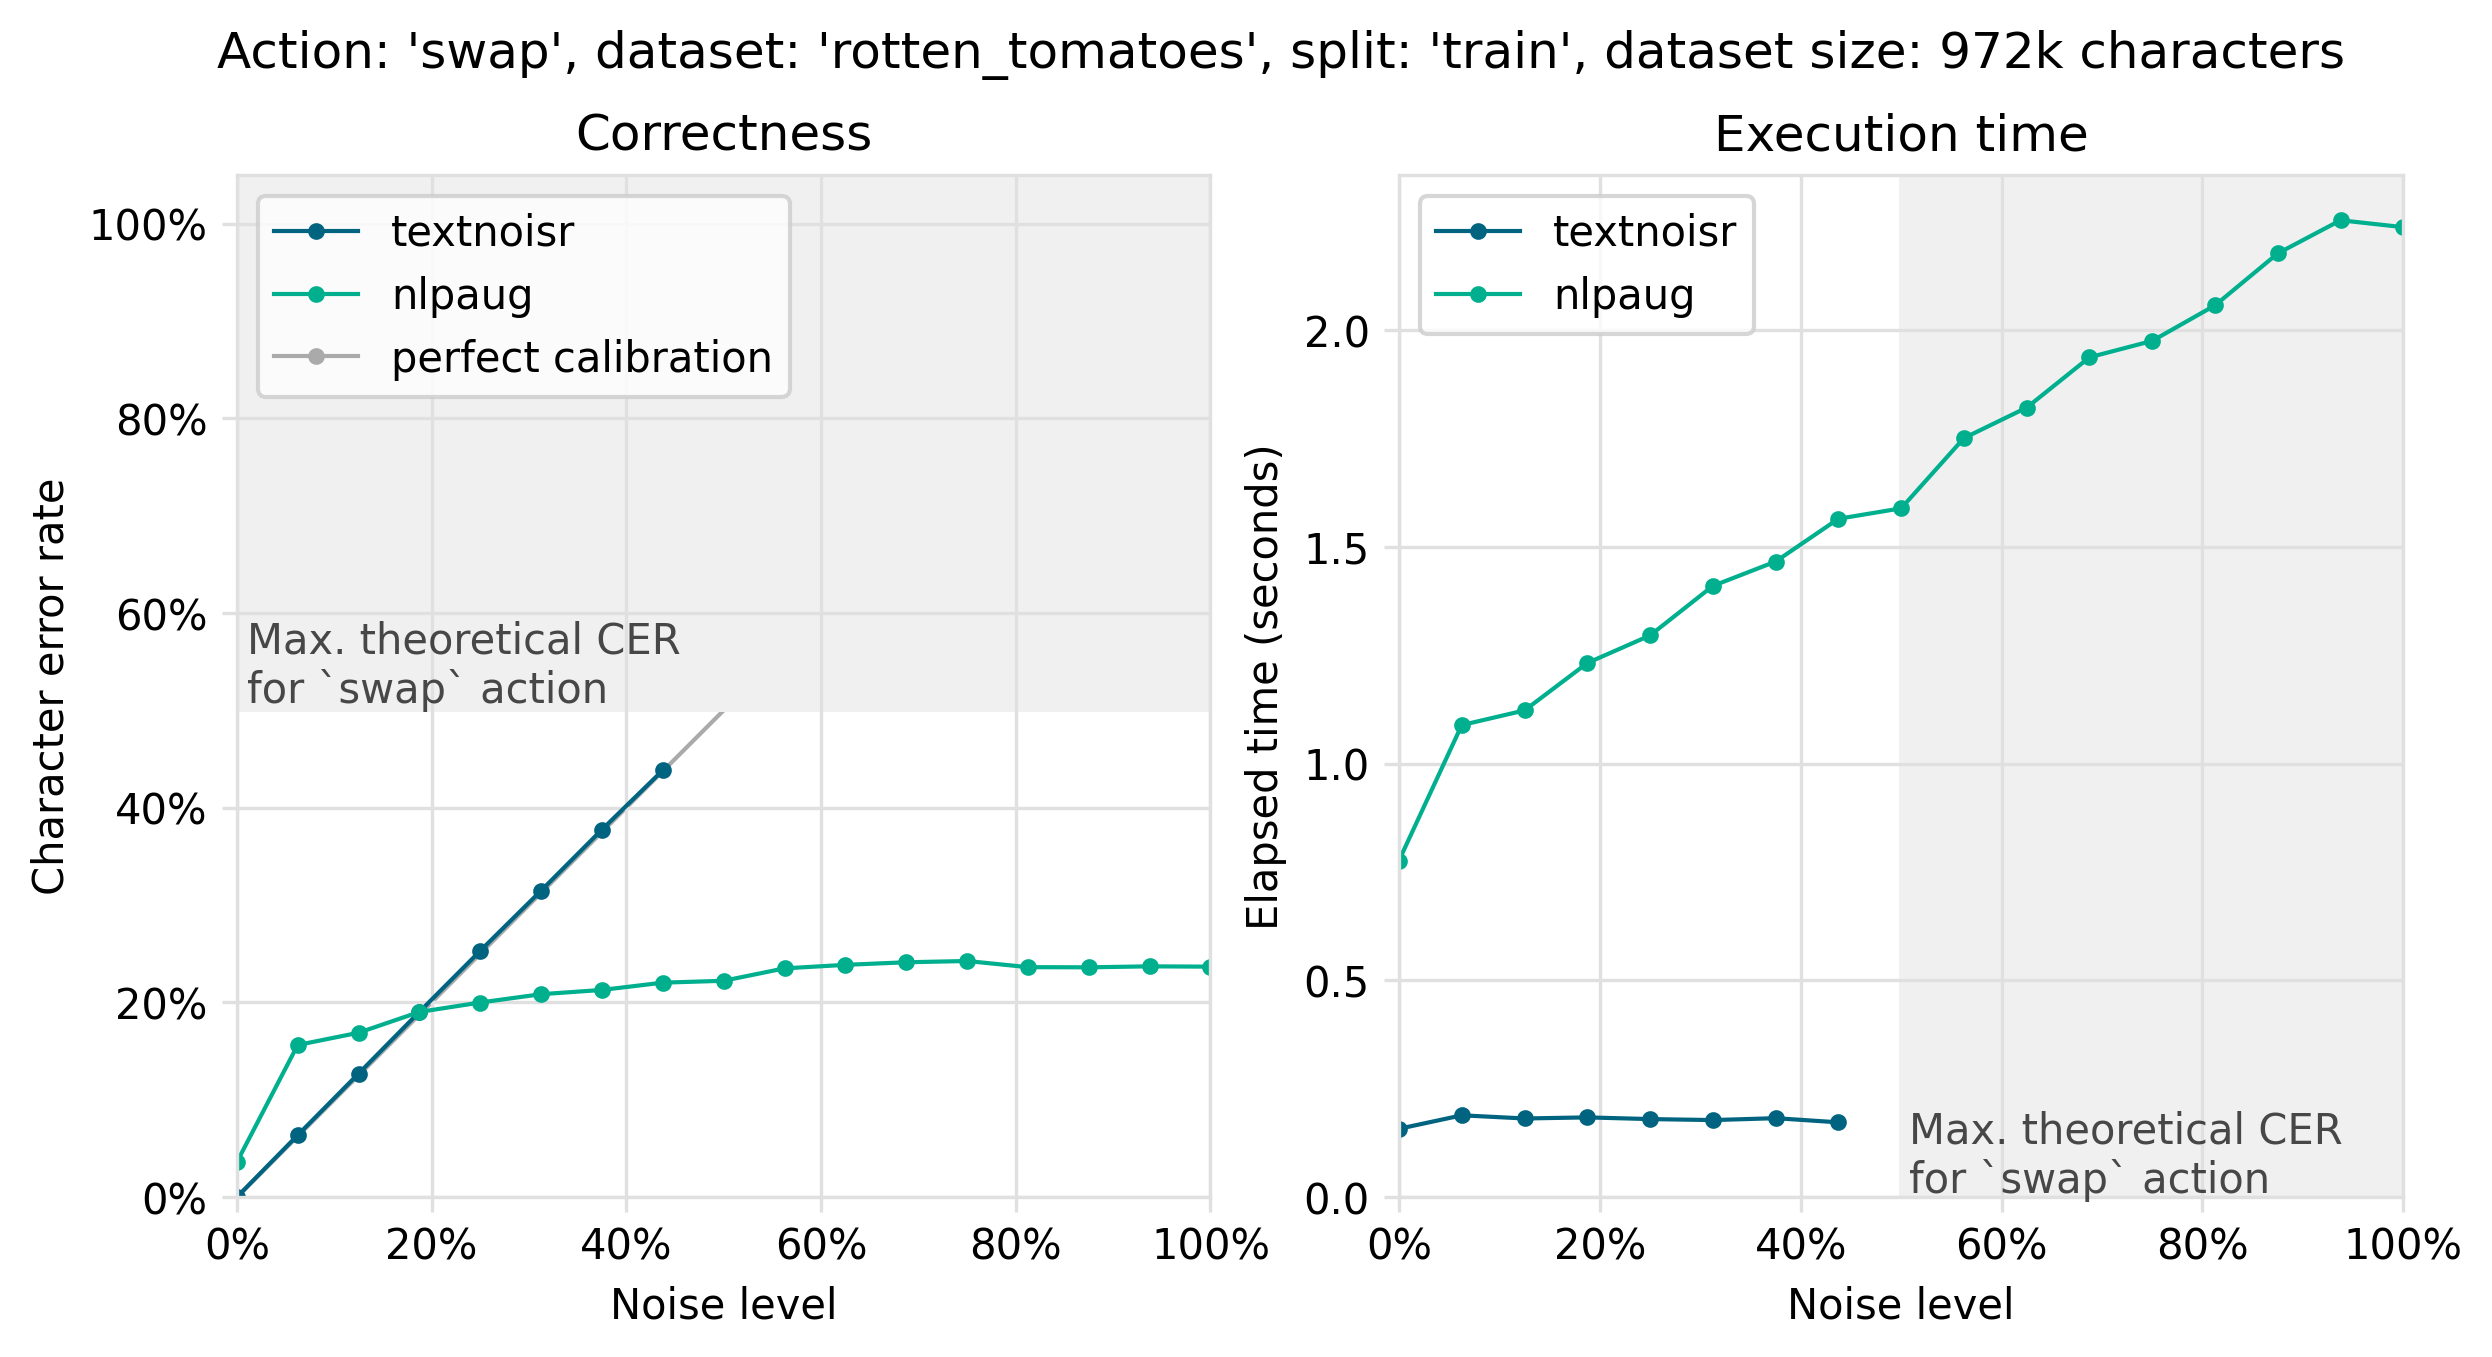
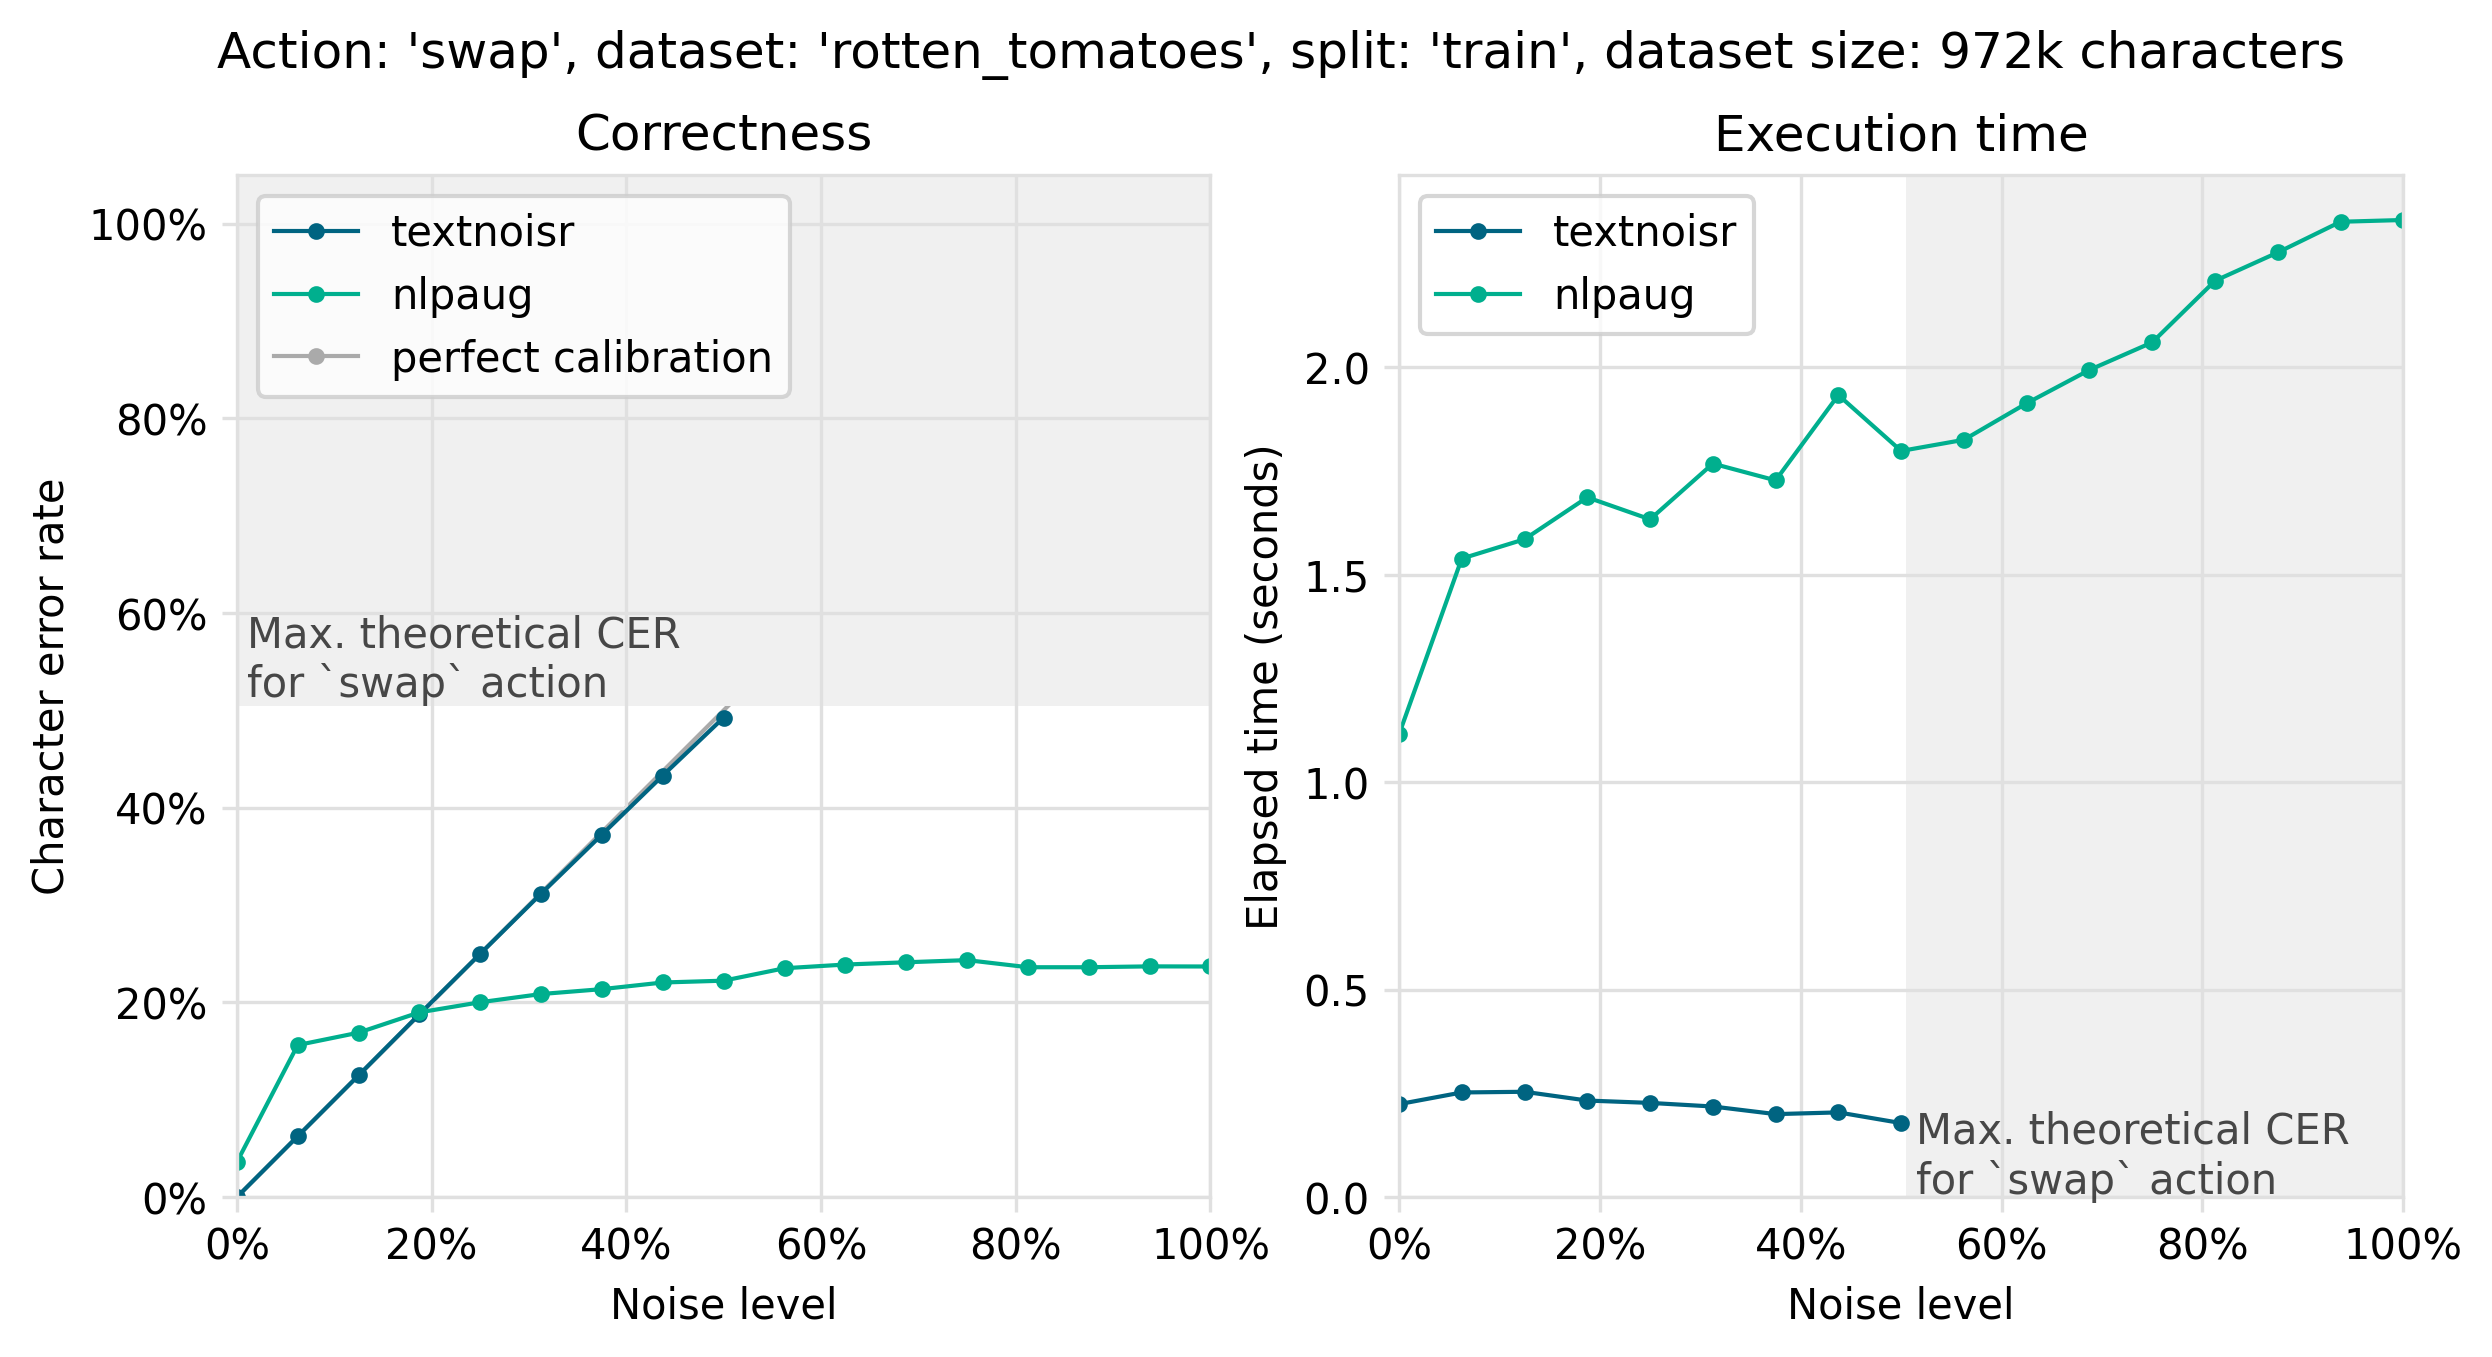
Review

diff --git a/textnoisr/noise.py b/textnoisr/noise.py
@@ -39,7 +39,7 @@ class CharNoiseAugmenter:
             Defaults to `None`.
         natural_language_swap_correction: A correction factor to take into account the
             fact that natural language is not random.
-            Defaults to 1.0655, which is the correction factor for English.
+            Defaults to 1.052, which is the correction factor for English.
 
     Raises:
              ValueError: If the action is not one of the available actions.
@@ -53,7 +53,7 @@ class CharNoiseAugmenter:
         actions: tuple[str, ...] = _AVAILABLE_ACTIONS,
         character_set: tuple[str, ...] = tuple(string.ascii_letters),
         seed: int | None = None,
-        natural_language_swap_correction: float = 1.0655,
+        natural_language_swap_correction: float = 1.052,
     ) -> None:
         self.actions = [
             x for i, x in enumerate(actions) if x not in actions[:i]

diff --git a/scripts/natural_calibration.py b/scripts/natural_calibration.py
@@ -1,0 +1,27 @@
+from datasets import load_dataset
+from textnoisr import noise, noise_dataset
+from textnoisr.noise_unbiasing import MAX_SWAP_LEVEL
+from evaluate import load
+
+cer = load("cer")
+
+# glue-mnli is used to compute correction for English
+dataset100_text = load_dataset("glue", "mnli", split="train[:100%]")
+
+noised_dataset = noise_dataset.add_noise(
+    dataset100_text,
+    noise.CharNoiseAugmenter(
+        noise_level=MAX_SWAP_LEVEL,
+        actions=["swap"],
+        seed=42,
+        natural_language_swap_correction=1,
+    ),
+    feature_name="premise",
+)
+
+pred = [aug_doc["premise"] for aug_doc in noised_dataset]
+ref = [doc["premise"] for doc in dataset100_text]
+cer_score = cer.compute(predictions=pred, references=ref)
+
+print(f"natural_correction = {MAX_SWAP_LEVEL / cer_score:.3f}")
+# natural_correction = 1.052

diff --git a/scripts/generate_figures.py b/scripts/generate_figures.py
@@ -57,7 +57,7 @@ DEFAULT_N_SAMPLES = 17
 
 def max_level(actions):
     if "swap" in actions:
-        return MAX_SWAP_LEVEL / 1.0655 - 0.005
+        return MAX_SWAP_LEVEL / 1.052 - 0.005
     return 1
 
 

diff --git a/docs/swap_unbiasing.md b/docs/swap_unbiasing.md
@@ -326,7 +326,7 @@ This maximum is directly due to the constraint of preventing swapping the curren
 In natural language, our assumption that two consecutive characters are always different is not always true.
 To take this into account, we have to introduce a small multiplicative coefficient to the probability $p$.
 
-For english language, we computed this correction factor to be approximately 1.0655, which is the default in `textnoisr`.
+For English language, we computed this correction factor to be approximately 1.052, which is the default in `textnoisr`.
 
 
 *[Character Error Rate]: (=CER) A metric that quantify how noisy is a text. It is number of insert, delete and substitute errors, divided by the total number of characters.
